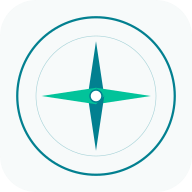
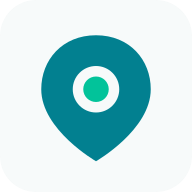
Rebranding "Boussole" -> "Repère"
Nouveau nom et identité visuelle (logo, favicons) suite à une collision de
nom avec l'app Compass d'Apple ("Boussole" en français). Remplace le texte
"Boussole" par "Repère" dans l'interface, le rapport PDF, l'app Electron et
la documentation ; migre les données existantes vers le nouveau dossier
utilisateur (pei-central -> boussole -> repere) sans perte.

diff --git a/electron/main.js b/electron/main.js
@@ -8,25 +8,31 @@ const require = createRequire(import.meta.url)
 
 const __dirname = path.dirname(fileURLToPath(import.meta.url))
 const PORT = 3001
-const LEGACY_APP_NAME = 'pei-central'
+// Ordre du plus recent au plus ancien nom npm utilise par l'app (determine le
+// dossier de donnees userData d'Electron a chaque rebranding).
+const LEGACY_APP_NAMES = ['boussole', 'pei-central']
 const RELEASES_URL = 'https://github.com/mandanbaudouin-a11y/boussole/releases/latest'
 
 console.log('[main] script loaded, pid', process.pid)
 
 let mainWindow
 
-// L'app s'appelait "pei-central" avant le rebranding "Boussole" (le nom npm
-// determine le dossier de donnees userData d'Electron). Migration a usage
-// unique : si le nouveau dossier de donnees n'existe pas encore mais
-// l'ancien si, on copie son contenu avant le tout premier demarrage sous le
-// nouveau nom, pour ne pas perdre l'acces aux donnees deja saisies.
+// L'app s'est appelee "pei-central" puis "Boussole" avant le rebranding
+// "Repère" (le nom npm determine le dossier de donnees userData d'Electron).
+// Migration a usage unique : si le nouveau dossier de donnees n'existe pas
+// encore, on cherche le premier nom precedent dont le dossier existe et on
+// copie son contenu avant le tout premier demarrage sous le nouveau nom,
+// pour ne pas perdre l'acces aux donnees deja saisies.
 function migrateLegacyDataDir(newDataDir) {
   if (fs.existsSync(newDataDir)) return
-  const legacyDataDir = path.join(path.dirname(app.getPath('userData')), LEGACY_APP_NAME, 'data')
-  if (!fs.existsSync(legacyDataDir)) return
-  console.log('[main] migration des donnees depuis', legacyDataDir, 'vers', newDataDir)
-  fs.mkdirSync(path.dirname(newDataDir), { recursive: true })
-  fs.cpSync(legacyDataDir, newDataDir, { recursive: true })
+  for (const legacyName of LEGACY_APP_NAMES) {
+    const legacyDataDir = path.join(path.dirname(app.getPath('userData')), legacyName, 'data')
+    if (!fs.existsSync(legacyDataDir)) continue
+    console.log('[main] migration des donnees depuis', legacyDataDir, 'vers', newDataDir)
+    fs.mkdirSync(path.dirname(newDataDir), { recursive: true })
+    fs.cpSync(legacyDataDir, newDataDir, { recursive: true })
+    return
+  }
 }
 
 // Mise a jour automatique via GitHub Releases (voir build.publish dans
@@ -58,7 +64,7 @@ function setupAutoUpdate() {
         .showMessageBox(mainWindow, {
           type: 'info',
           title: 'Mise a jour disponible',
-          message: `Boussole ${info.version} est disponible (version actuelle : ${app.getVersion()}).`,
+          message: `Repère ${info.version} est disponible (version actuelle : ${app.getVersion()}).`,
           detail:
             "La mise à jour automatique n'est pas encore activée sur Mac. Téléchargez et installez la nouvelle version manuellement.",
           buttons: ['Ouvrir la page de téléchargement', 'Plus tard'],
@@ -79,7 +85,7 @@ function setupAutoUpdate() {
       .showMessageBox(mainWindow, {
         type: 'info',
         title: 'Mise a jour prete',
-        message: `Boussole ${info.version} est prête à être installée.`,
+        message: `Repère ${info.version} est prête à être installée.`,
         detail: "L'application va redémarrer pour terminer l'installation.",
         buttons: ['Redémarrer maintenant', 'Plus tard'],
         defaultId: 0,
@@ -143,7 +149,7 @@ if (!gotLock) {
       } catch (err) {
         console.error('[main] server failed to start', err)
         dialog.showErrorBox(
-          'Boussole — erreur de demarrage',
+          'Repère — erreur de démarrage',
           `Le serveur local n'a pas pu demarrer sur le port ${PORT}.\n\n${err.stack || err.message}`
         )
         app.quit()
@@ -174,7 +180,7 @@ function createWindow() {
     height: 840,
     minWidth: 960,
     minHeight: 640,
-    title: 'Boussole',
+    title: 'Repère',
     backgroundColor: '#EEF1EC',
     webPreferences: {
       nodeIntegration: false,

diff --git a/src/components/StudentPage.jsx b/src/components/StudentPage.jsx
@@ -1059,9 +1059,9 @@ function RapportTab({ student, canEdit, onSaveNarrativeReport }) {
       <div className="report-sheet">
         <div className="report-header">
           <div className="brand-row" style={{ marginBottom: 0 }}>
-            <img src="/logo-boussole-icon.svg" alt="" className="brand-icon" style={{ width: 30, height: 30 }} />
+            <img src="/logo-repere-icon.svg" alt="" className="brand-icon" style={{ width: 30, height: 30 }} />
             <div>
-              <p className="brand" style={{ fontSize: 18, lineHeight: 1.1 }}>Boussole</p>
+              <p className="brand" style={{ fontSize: 18, lineHeight: 1.1 }}>Repère</p>
               <p className="report-meta" style={{ margin: 0 }}>{t("Plan d'enseignement individualisé")}</p>
             </div>
           </div>

diff --git a/src/components/AuthScreen.jsx b/src/components/AuthScreen.jsx
@@ -76,8 +76,8 @@ export default function AuthScreen({ mode, onSubmit, message }) {
         <div className="auth-panel-brand">
           <div style={{ display: 'flex', alignItems: 'center', justifyContent: 'space-between', gap: 12 }}>
             <div className="brand-row" style={{ marginBottom: 0 }}>
-              <img src="/logo-boussole-icon.svg" alt="" className="brand-icon" />
-              <span className="brand" style={{ color: '#fff', fontSize: 24 }}>Boussole</span>
+              <img src="/logo-repere-icon.svg" alt="" className="brand-icon" />
+              <span className="brand" style={{ color: '#fff', fontSize: 24 }}>Repère</span>
             </div>
             <LanguageToggle className="on-dark" />
           </div>

diff --git a/scripts/reset-password.js b/scripts/reset-password.js
@@ -9,8 +9,8 @@
 //
 // Pour l'app de bureau installée (pas le mode développement), pointer
 // PEI_CENTRAL_DATA_DIR vers le dossier de données réel avant d'exécuter :
-//   macOS   : PEI_CENTRAL_DATA_DIR=~/Library/Application\ Support/boussole/data node scripts/reset-password.js ...
-//   Windows : set PEI_CENTRAL_DATA_DIR=%APPDATA%\boussole\data && node scripts\reset-password.js ...
+//   macOS   : PEI_CENTRAL_DATA_DIR=~/Library/Application\ Support/repere/data node scripts/reset-password.js ...
+//   Windows : set PEI_CENTRAL_DATA_DIR=%APPDATA%\repere\data && node scripts\reset-password.js ...
 
 import { parseArgs } from 'node:util'
 import bcrypt from 'bcrypt'

diff --git a/src/App.jsx b/src/App.jsx
@@ -350,8 +350,8 @@ export default function App() {
       <aside className="sidebar">
         <div className="brand-row" style={{ justifyContent: 'space-between' }}>
           <div style={{ display: 'flex', alignItems: 'center', gap: 10 }}>
-            <img src="/logo-boussole-icon.svg" alt="" className="brand-icon" />
-            <p className="brand">Boussole</p>
+            <img src="/logo-repere-icon.svg" alt="" className="brand-icon" />
+            <p className="brand">Repère</p>
           </div>
         </div>
         <p className="brand-sub">{t('École Rivière-Rouge · Prototype')}</p>

diff --git a/index.html b/index.html
@@ -3,7 +3,7 @@
   <head>
     <meta charset="UTF-8" />
     <meta name="viewport" content="width=device-width, initial-scale=1.0" />
-    <title>Boussole</title>
+    <title>Repère</title>
     <link rel="icon" href="/favicon.ico" sizes="any" />
     <link rel="icon" type="image/png" sizes="16x16" href="/favicon-16x16.png" />
     <link rel="icon" type="image/png" sizes="32x32" href="/favicon-32x32.png" />

diff --git a/server/index.js b/server/index.js
@@ -1140,7 +1140,7 @@ export function start(port = DEFAULT_PORT) {
   return new Promise((resolve, reject) => {
     const server = app
       .listen(port, () => {
-        console.log(`API Boussole sur http://localhost:${port}`)
+        console.log(`API Repère sur http://localhost:${port}`)
         resolve(server)
       })
       .on('error', reject)

diff --git a/src/i18n/LanguageContext.jsx b/src/i18n/LanguageContext.jsx
@@ -1,7 +1,7 @@
 import { createContext, useContext, useState } from 'react'
 import { en } from './en'
 
-const STORAGE_KEY = 'boussole-lang'
+const STORAGE_KEY = 'repere-lang'
 
 const LanguageContext = createContext({
   lang: 'fr',

diff --git a/README.md b/README.md
@@ -1,4 +1,4 @@
-# Boussole — prototype
+# Repère — prototype
 
 Prototype MVP pour la gestion des PEI (plans d'enseignement individualises), appuye sur une base de donnees SQLite locale (`data/pei-central.db`).
 
@@ -80,10 +80,10 @@ vers le vrai dossier de donnees avant d'executer la commande :
 
 ```bash
 # macOS
-PEI_CENTRAL_DATA_DIR=~/Library/Application\ Support/boussole/data node scripts/reset-password.js --user prof --password nouveauMotDePasse
+PEI_CENTRAL_DATA_DIR=~/Library/Application\ Support/repere/data node scripts/reset-password.js --user prof --password nouveauMotDePasse
 
 # Windows (invite de commandes)
-set PEI_CENTRAL_DATA_DIR=%APPDATA%\boussole\data
+set PEI_CENTRAL_DATA_DIR=%APPDATA%\repere\data
 node scripts\reset-password.js --user prof --password nouveauMotDePasse
 ```
 
@@ -114,12 +114,12 @@ automatiquement a l'interieur du processus Electron (`electron/main.js`), qui ou
 
 **Emplacement des donnees dans l'app packagee** (different du dossier `data/` du projet, qui ne sert qu'en
 mode developpement) :
-- macOS : `~/Library/Application Support/boussole/data/`
-- Windows : `%APPDATA%\boussole\data\`
+- macOS : `~/Library/Application Support/repere/data/`
+- Windows : `%APPDATA%\repere\data\`
 
-L'app s'appelait auparavant "PEI Central" (dossier `pei-central`). Au premier lancement sous le nouveau
-nom, `electron/main.js` migre automatiquement les donnees de l'ancien dossier vers le nouveau si ce
-dernier n'existe pas encore — voir `migrateLegacyDataDir()`.
+L'app s'est appelee auparavant "PEI Central" (dossier `pei-central`) puis "Boussole" (dossier `boussole`).
+Au premier lancement sous le nouveau nom, `electron/main.js` migre automatiquement les donnees du premier
+ancien dossier trouve vers le nouveau si ce dernier n'existe pas encore — voir `migrateLegacyDataDir()`.
 
 ### Generer les installateurs
 
@@ -168,11 +168,11 @@ Les fichiers generes atterrissent dans `release/` (ignore par git) :
 
 | Fichier | Plateforme | Description |
 |---|---|---|
-| `release/Boussole-0.1.0.dmg` | macOS | Installateur — glisser l'app dans "Applications" |
-| `release/Boussole-0.1.0-mac.zip` | macOS | Meme app, en zip (alternative au dmg) |
-| `release/mac/Boussole.app` | macOS | L'app non compressee, pour test rapide |
-| `release/Boussole Setup 0.1.0.exe` | Windows | Installateur — double-clic, choix du dossier d'installation |
-| `release/win-unpacked/Boussole.exe` | Windows | L'app non compressee, pour test rapide |
+| `release/Repère-0.1.0.dmg` | macOS | Installateur — glisser l'app dans "Applications" |
+| `release/Repère-0.1.0-mac.zip` | macOS | Meme app, en zip (alternative au dmg) |
+| `release/mac/Repère.app` | macOS | L'app non compressee, pour test rapide |
+| `release/Repère Setup 0.1.0.exe` | Windows | Installateur — double-clic, choix du dossier d'installation |
+| `release/win-unpacked/Repère.exe` | Windows | L'app non compressee, pour test rapide |
 
 Les fichiers `.blockmap` a cote des installateurs servent aux mises a jour differentielles automatiques
 (non utilisees ici) — ils peuvent etre ignores ou supprimes sans consequence.
